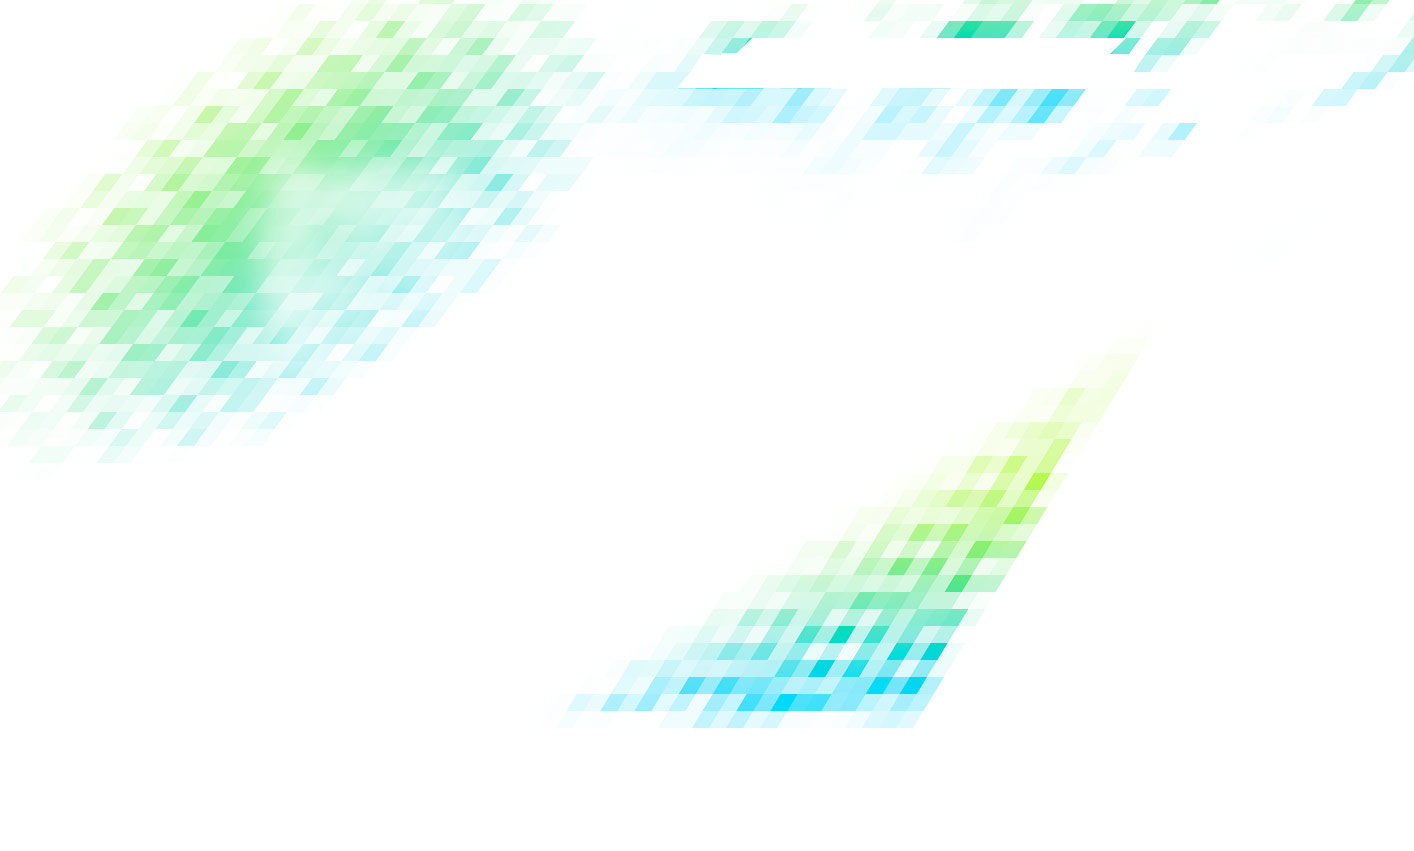
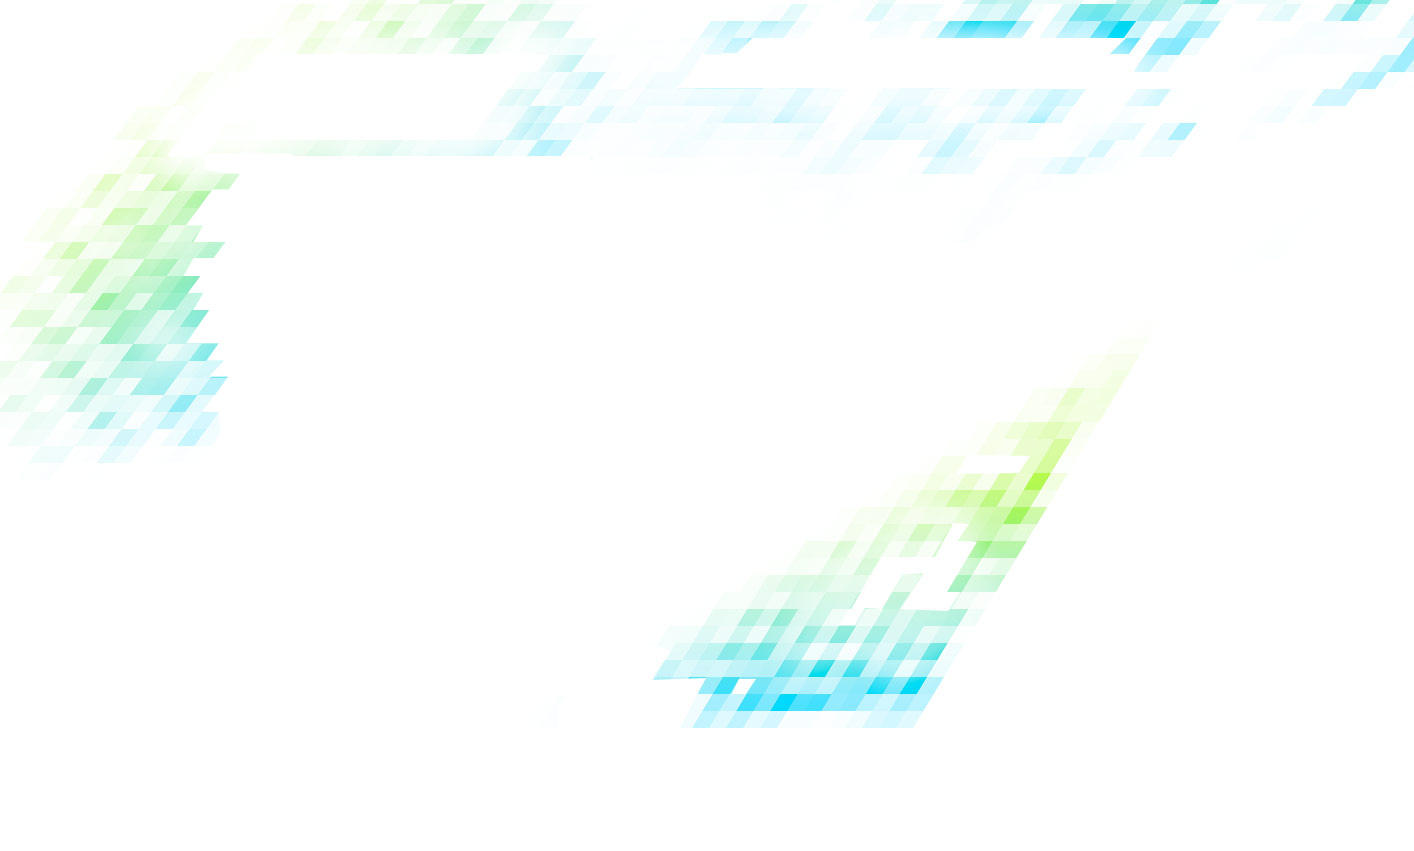
Add the pixel backgrounds for each page and style the tab panes.

diff --git a/templates/program.html b/templates/program.html
@@ -30,11 +30,11 @@
       </table>
       <p>A day filled with inspiring keynotes, a few crisp panel discussions, stimulating presentations. And a few pleasant surprises.</p>
 
-      <p><strong>In a fast changing economic environment with increasing competitive intensity, how can organizational learning become a source of competitive advantage and continuous change?</strong></p>
+      <p><strong class="question">In a fast changing economic environment with increasing competitive intensity, how can organizational learning become a source of competitive advantage and continuous change?</strong></p>
 
-      <p><strong>How can organizational learning, positively impact the business and proactively propel change in business strategy or ensure its effective implementation, instead of just reacting to it?</strong></p>
+      <p><strong class="question">How can organizational learning, positively impact the business and proactively propel change in business strategy or ensure its effective implementation, instead of just reacting to it?</strong></p>
 
-      <p><strong>How can organizations use learning as a tool to innovate, differentiate themselves in order to attract and retain Talent, Customers and Investors?</strong></p>
+      <p><strong class="question">How can organizations use learning as a tool to innovate, differentiate themselves in order to attract and retain Talent, Customers and Investors?</strong></p>
 
       <p>The inaugural CLO summit shall endeavour to find answers to these questions and the following key areas through interaction and debate amongst some of the best minds in the field.</p>
     </div>

diff --git a/media/sass/screen.sass b/media/sass/screen.sass
@@ -14,8 +14,8 @@ body
 #sponsor_bg
   :background-image= !url_sponsor_pixel_bg
 
-//#register_bg
-  //:background-image= !url_register_pixel_bg
+#register_bg
+  :background-image= !url_register_pixel_bg
 
 #about_bg
   :background-image= !url_about_pixel_bg
@@ -24,13 +24,13 @@ body
   //:background-image= !url_speaker_pixel_bg
 
 #research_bg
-  :background-image= !url_speaker_pixel_bg
+  :background-image= !url_research_pixel_bg
 
 #program_bg
   :background-image= !url_program_pixel_bg
 
-//#media_bg
-  //:background-image= !url_media_pixel_bg
+#media_bg
+  :background-image= !url_media_pixel_bg
 
 
 #tabs
@@ -50,23 +50,32 @@ body
       :color white
       :background-color= !color_awesome_green
 #panes
-  :background-color  #d8f5fb
+  :background-color  #91BD09
   +border-radius(10px)
+  :min-height 300px
+  :color white
   > li
     :display none
     //:margin-left 30px
     :margin-bottom 10px
     :padding 20px
+    >ul
+      >li
+        :margin-top 15px
 
 p
   :margin-bottom 15px
-  :font-size 1.1em
+  :font-size 1em
 
 h1, h2, h3
   :font-family= !font_stack_verdana
 
 strong
   :font-weight bold
+strong.question
+  :font-style italic
+  :color #007c96
+  
 ul.inline
   li
     +display-inline-block

diff --git a/templates/about.html b/templates/about.html
@@ -43,12 +43,11 @@
           </li>
         </ul>
       </aside>
-
       <ul class="clearboth" id="tabs">
         <li><a href="#pane_advisory_board">Advisory Board &dArr;</a></li>
         <li><a href="#pane_core_design_group">Core Design Group &dArr;</a></li>
       </ul>
-      <ul id="panes">
+      <ul class="clearboth" id="panes">
         <li id="pane_advisory_board">
           <ul>
             <li>Mr. Pranesh Anthapur (Coo, Yahoo! India)</li>

diff --git a/templates/base.html b/templates/base.html
@@ -47,7 +47,7 @@
         </header>
       {% endblock %}
       {% block tag_trunk %}{% endblock %}
-      {% block tag_footer %}{% endblock %}
+      {% block tag_footer %} Copyright &copy; <a href="http://www.leapvault.com">LeapVault</a>. Designed and developed by <a href="http://www.happychickoo.com">HappyChickoo</a>{% endblock %}
     </div>
 {% endblock %}
 

diff --git a/media/sass/_base.sass b/media/sass/_base.sass
@@ -43,4 +43,5 @@
 !url_about_pixel_bg = url("../image/background/about_pixel.jpg")
 !url_media_pixel_bg = url("../image/background/media_pixel.jpg")
 !url_speaker_pixel_bg = url("../image/background/speaker_pixel.jpg")
+!url_research_pixel_bg = url("../image/background/research_pixel.jpg")
 !url_register_pixel_bg = url("../image/background/register_pixel.jpg")

diff --git a/media/script/about.js b/media/script/about.js
@@ -1,7 +1,8 @@
 jQuery(function(){
     //jQuery("#accordion").tabs("#accordion .pane", {event: 'mouseover', tabs: 'h2.tab', effect: 'slide'});
     jQuery("#tabs").tabs("#panes > li", {
-          effect: "slide"
+          effect: "slide",
+          event: 'mouseover'
     });
 });
 

diff --git a/media/script/program.js b/media/script/program.js
@@ -1,7 +1,8 @@
 jQuery(function(){
     //jQuery("#accordion").tabs("#accordion .pane", {event: 'mouseover', tabs: 'h2.tab', effect: 'slide'});
     jQuery("#tabs").tabs("#panes > li", {
-          effect: "slide"
+          effect: "slide",
+          event: 'mouseover'
     });
 });
 

diff --git a/templates/research/thank_you.html b/templates/research/thank_you.html
@@ -1,4 +1,7 @@
 {% extends "base.html" %}
+{% block body_id %}
+    id="research_bg"
+{% endblock %}
 {% block tag_trunk %}
   <section>
     <h1>Thank you for participating in the survey.</h1>

diff --git a/templates/research/participate.html b/templates/research/participate.html
@@ -1,4 +1,7 @@
 {% extends "base.html" %}
+{% block body_id %}
+    id="research_bg"
+{% endblock %}
 {% block tag_trunk %}
   <section>
     <h1>CLO Survey Participation Form.</h1>

diff --git a/templates/research/research.html b/templates/research/research.html
@@ -1,4 +1,7 @@
 {% extends "base.html" %}
+{% block body_id %}
+    id="research_bg"
+{% endblock %}
 {% block tag_trunk %}
   <section>
     <h1>CLO Survey 2009!</h1>

diff --git a/templates/sponsors.html b/templates/sponsors.html
@@ -1,6 +1,6 @@
 {% extends "base.html" %}
 {% block body_id %}
-    id="sponspor_bg"
+    id="sponsor_bg"
 {% endblock %}
 {% block tag_trunk %}
   <section>

diff --git a/templates/register/wizard.html b/templates/register/wizard.html
@@ -1,4 +1,7 @@
 {% extends "base.html" %}
+{% block body_id %}
+    id="register_bg"
+{% endblock %}
 {% block tag_trunk %}
   <section>
     <article>
